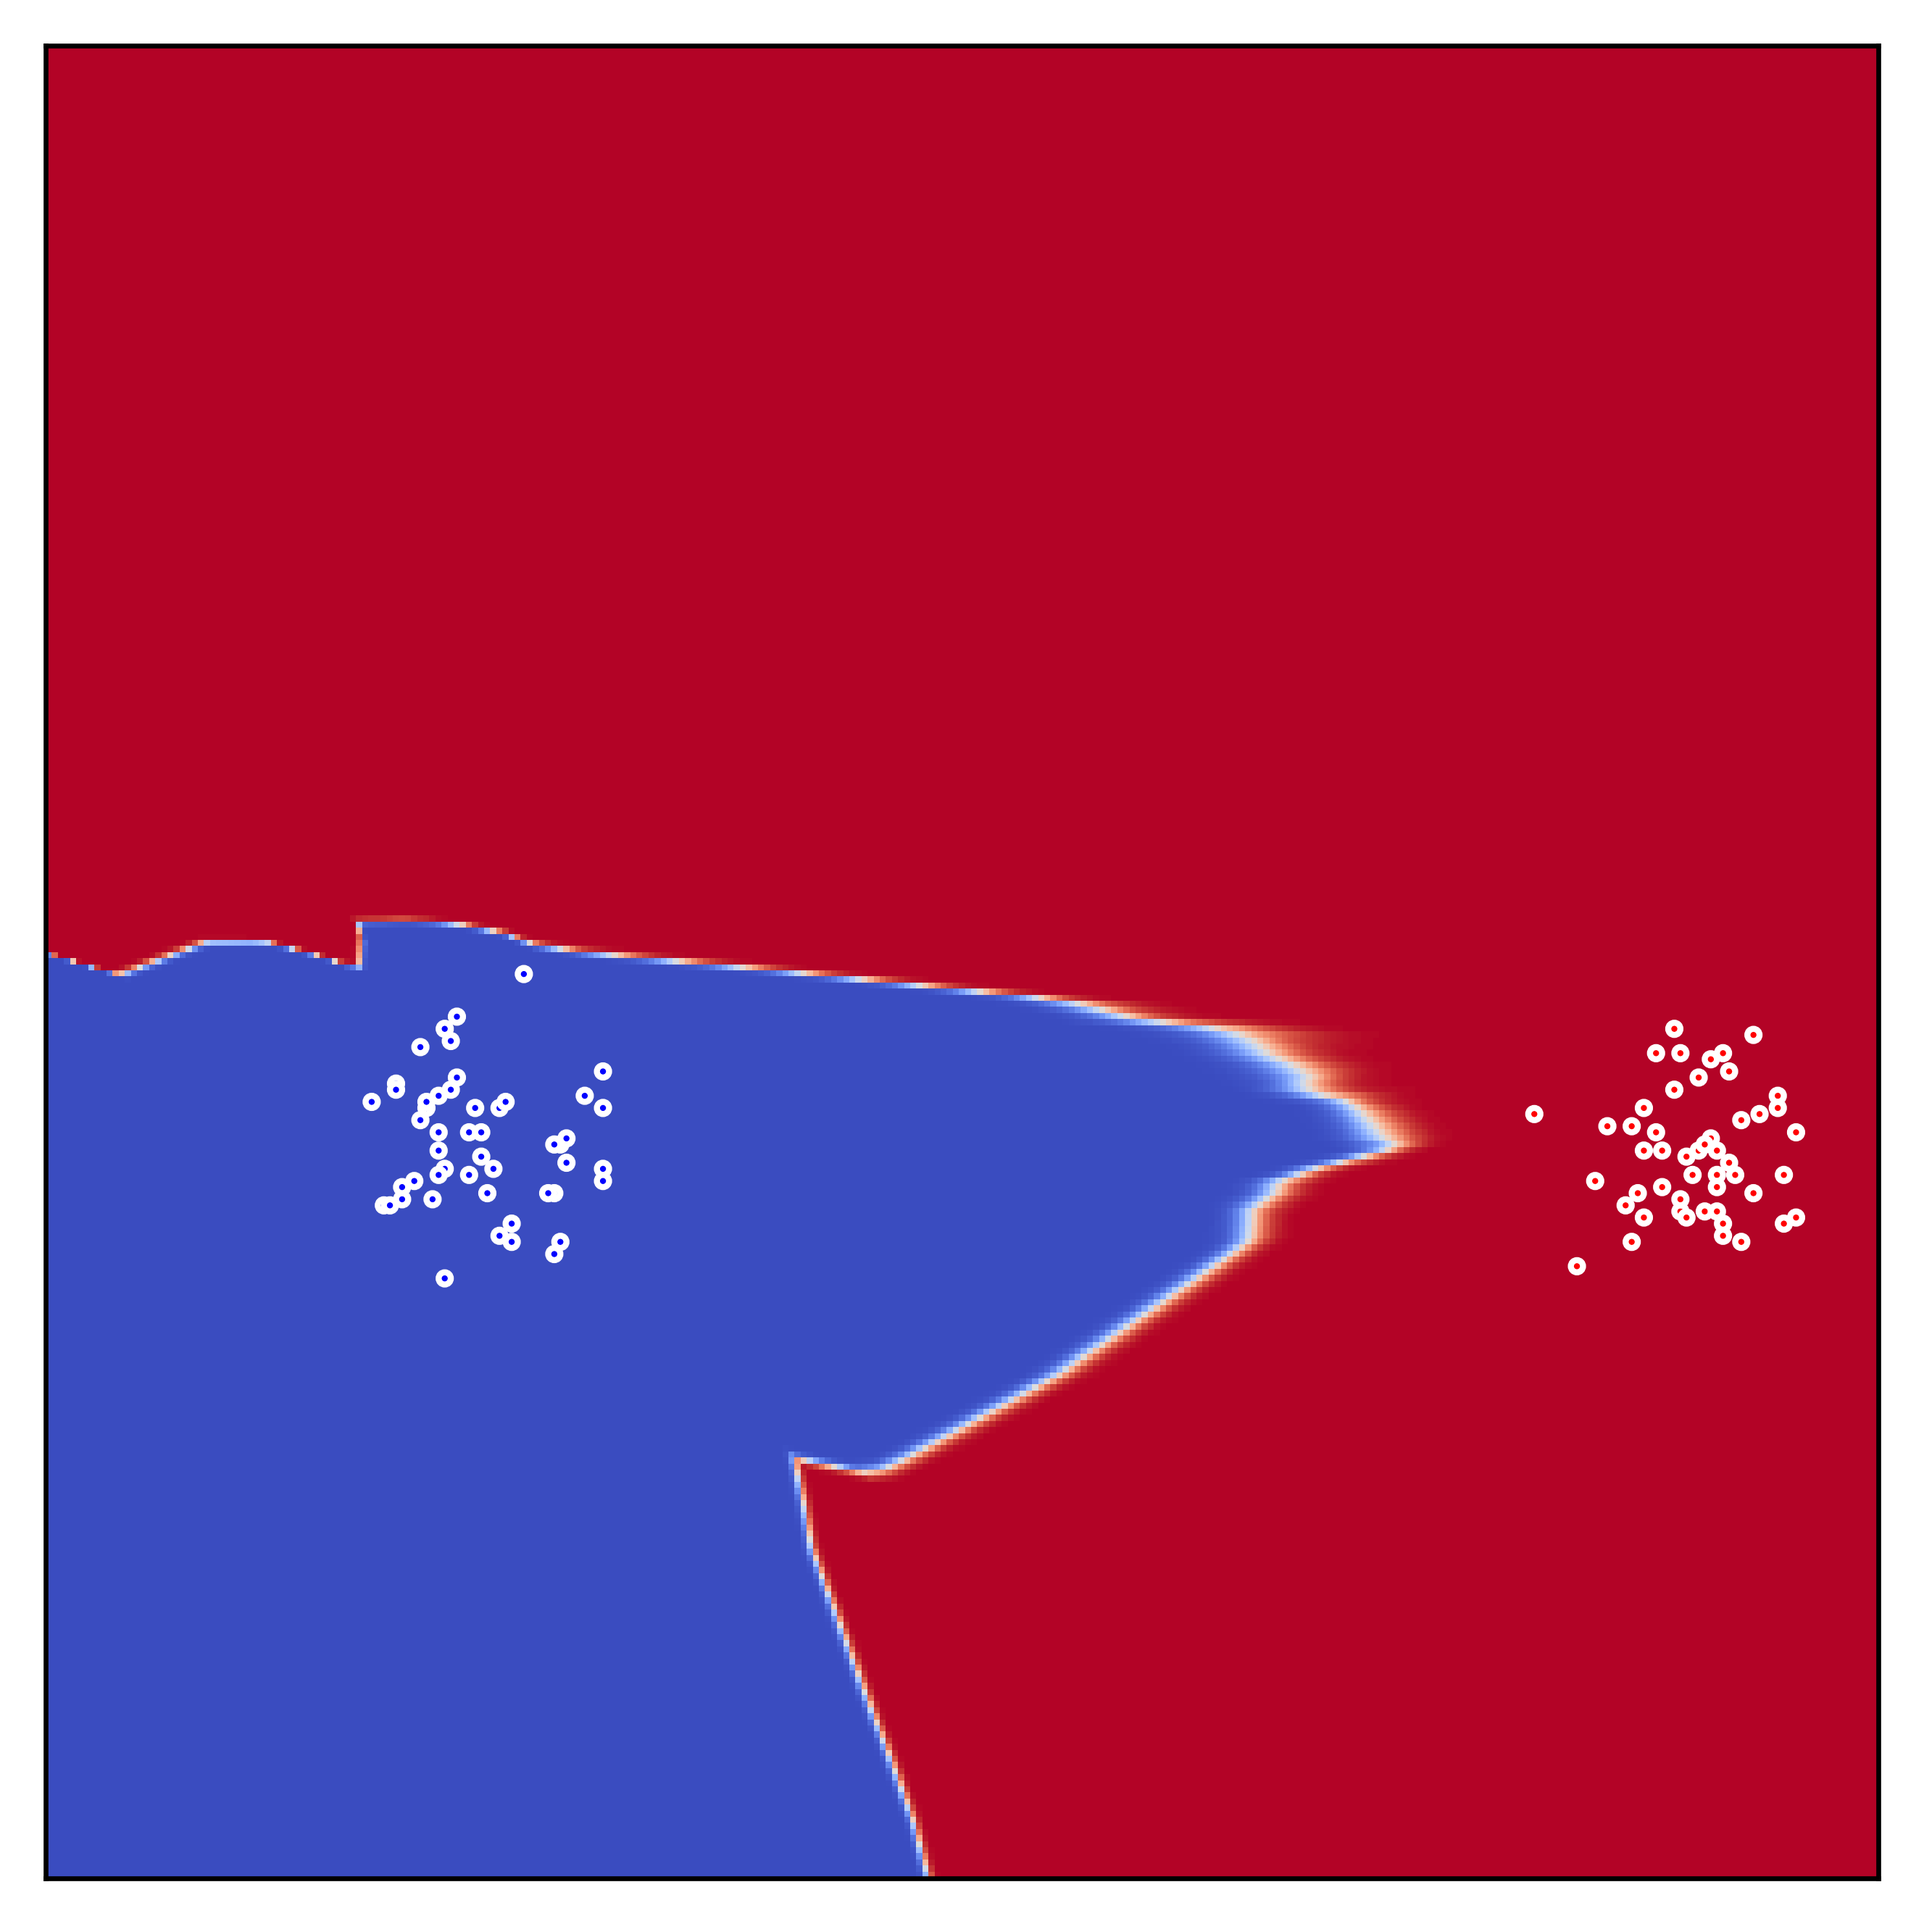
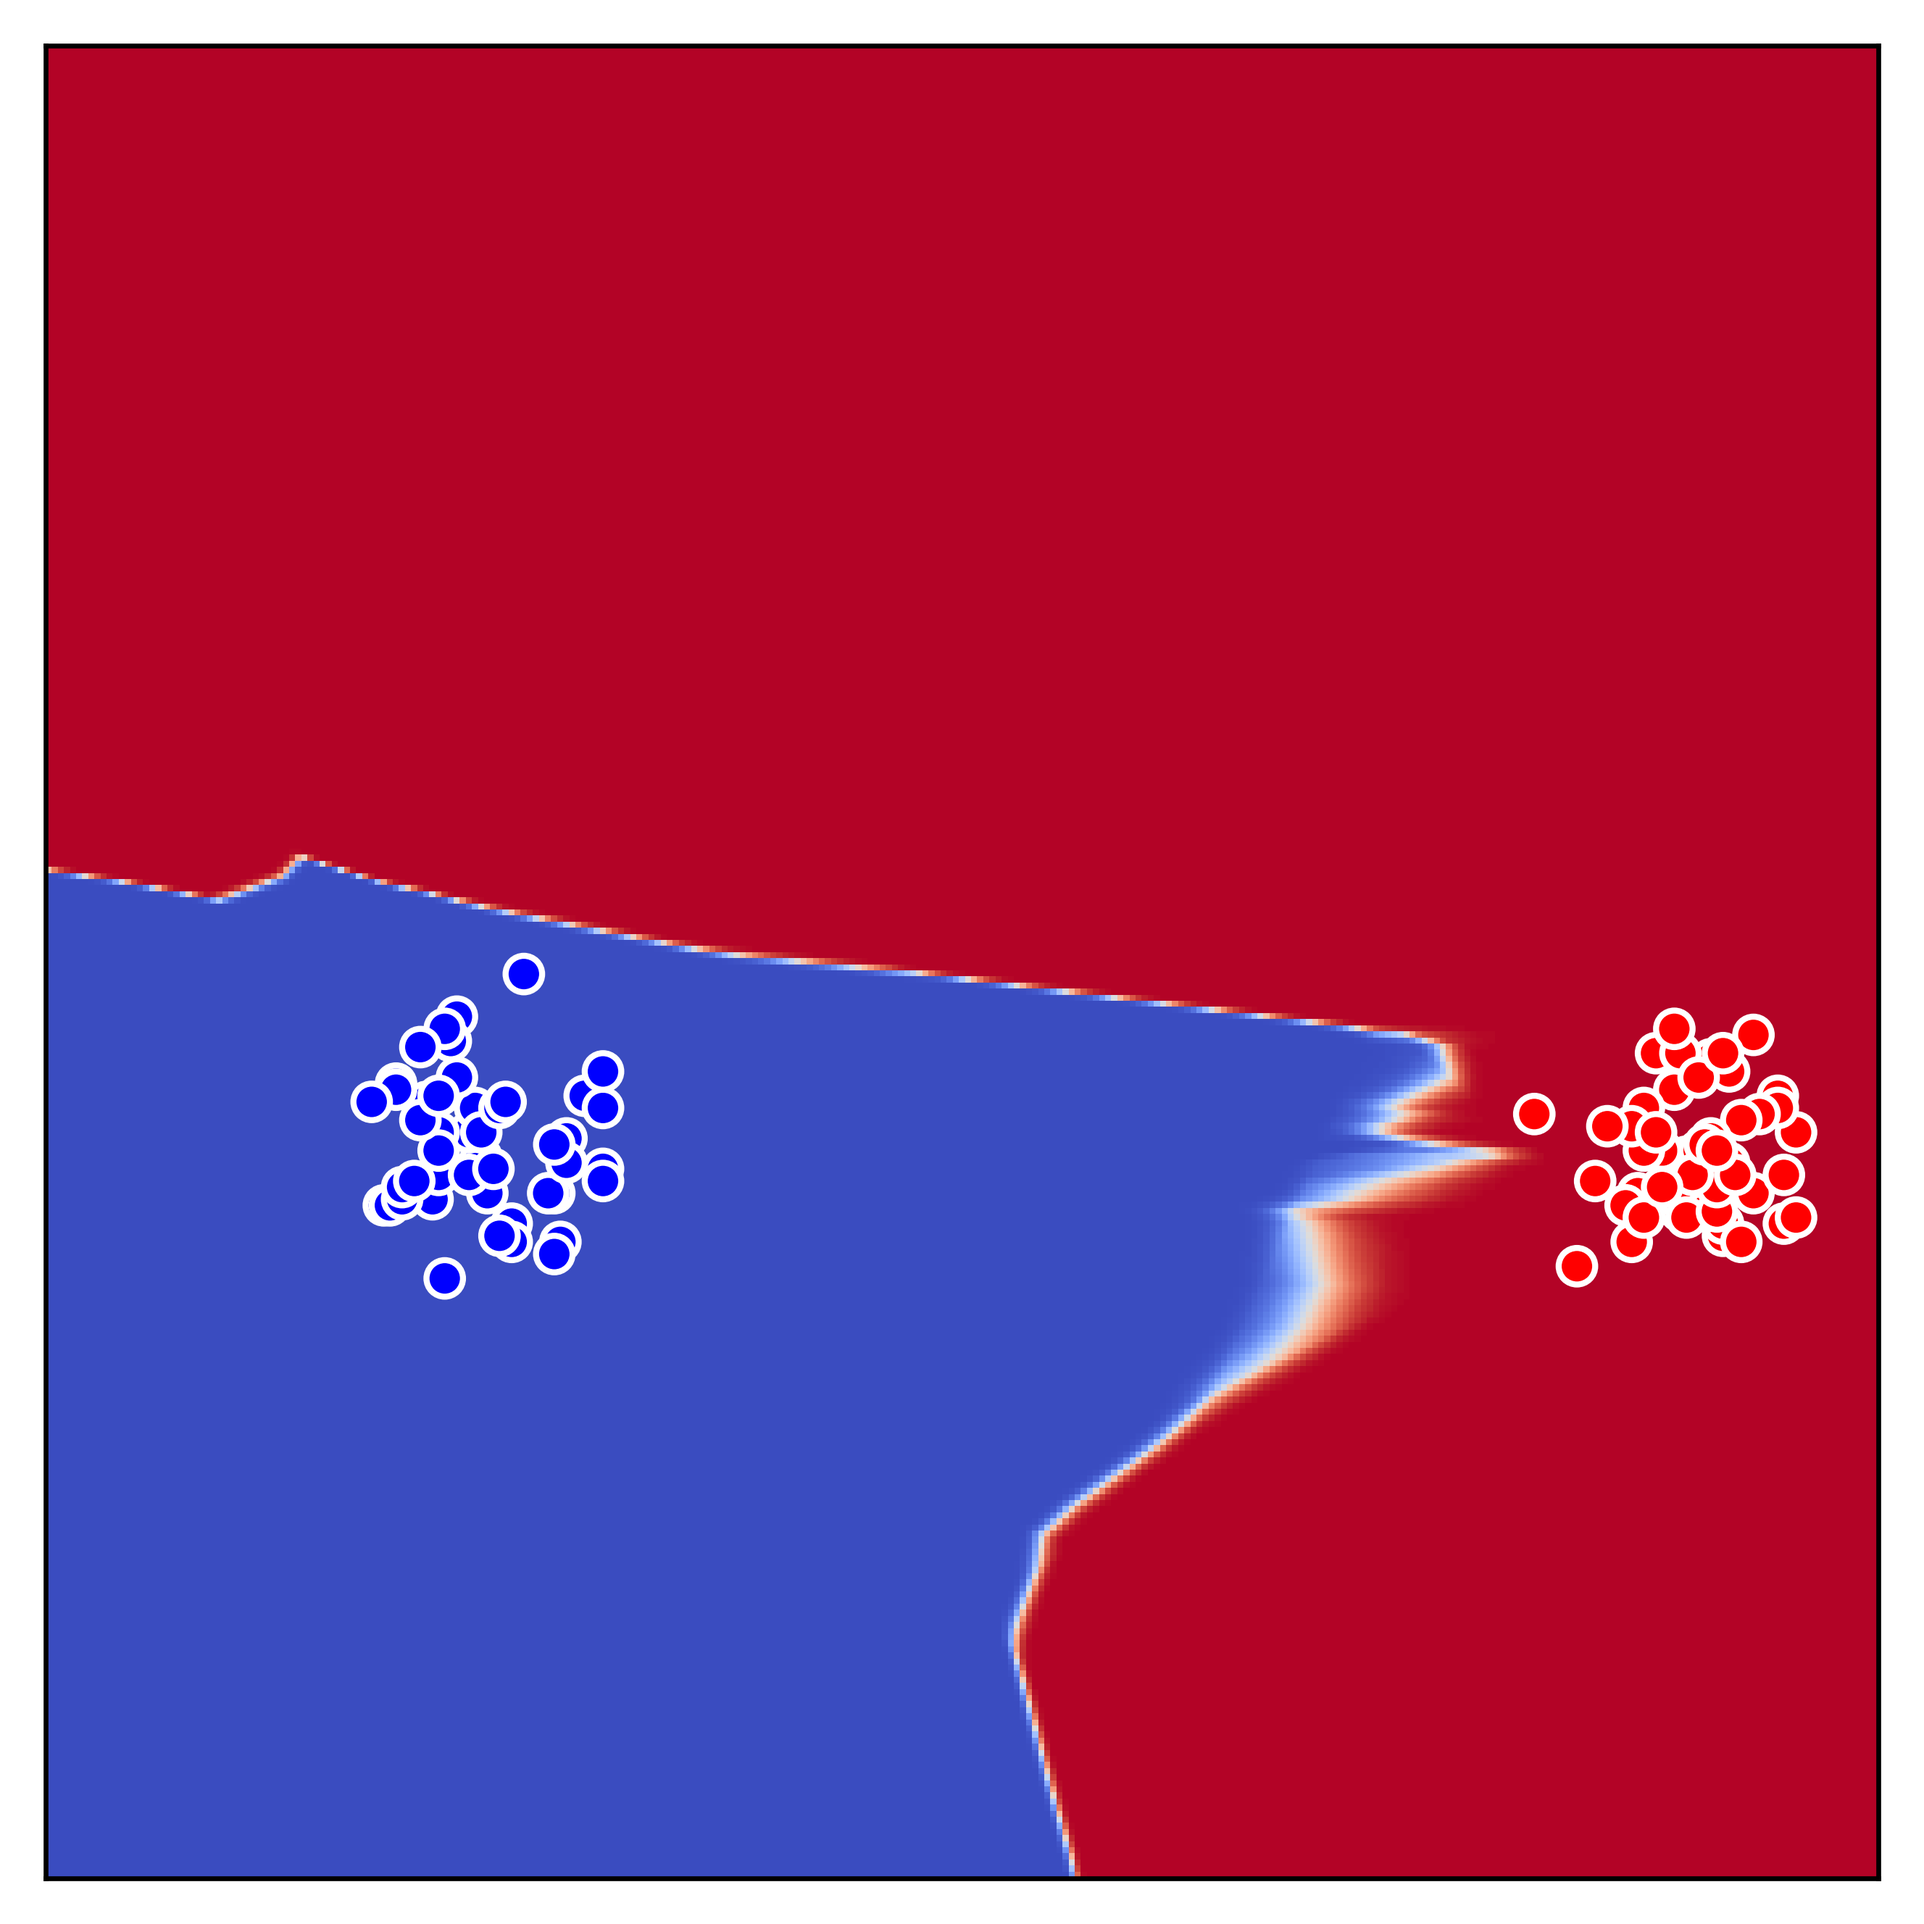
Update plotting

Changed region(s): [[0.0, 0.4324, 0.9574, 0.9883]]

diff --git a/model/plotting.py b/model/plotting.py
@@ -80,9 +80,9 @@ def plot_decision_boundary(model, X_, Y_, epoch, mode):
             if j < x[1]:
                 break
         if y == 0:
-            ax.add_patch(Circle((col_idx, row_idx), 1, fill=True, facecolor='b', edgecolor='w'))
+            ax.add_patch(Circle((col_idx, row_idx), 3, fill=True, facecolor='b', edgecolor='w'))
         else:
-            ax.add_patch(Circle((col_idx, row_idx), 1, fill=True, facecolor='r', edgecolor='w'))
+            ax.add_patch(Circle((col_idx, row_idx), 3, fill=True, facecolor='r', edgecolor='w'))
 
     im = ax.imshow(colors, cmap='coolwarm')
 
